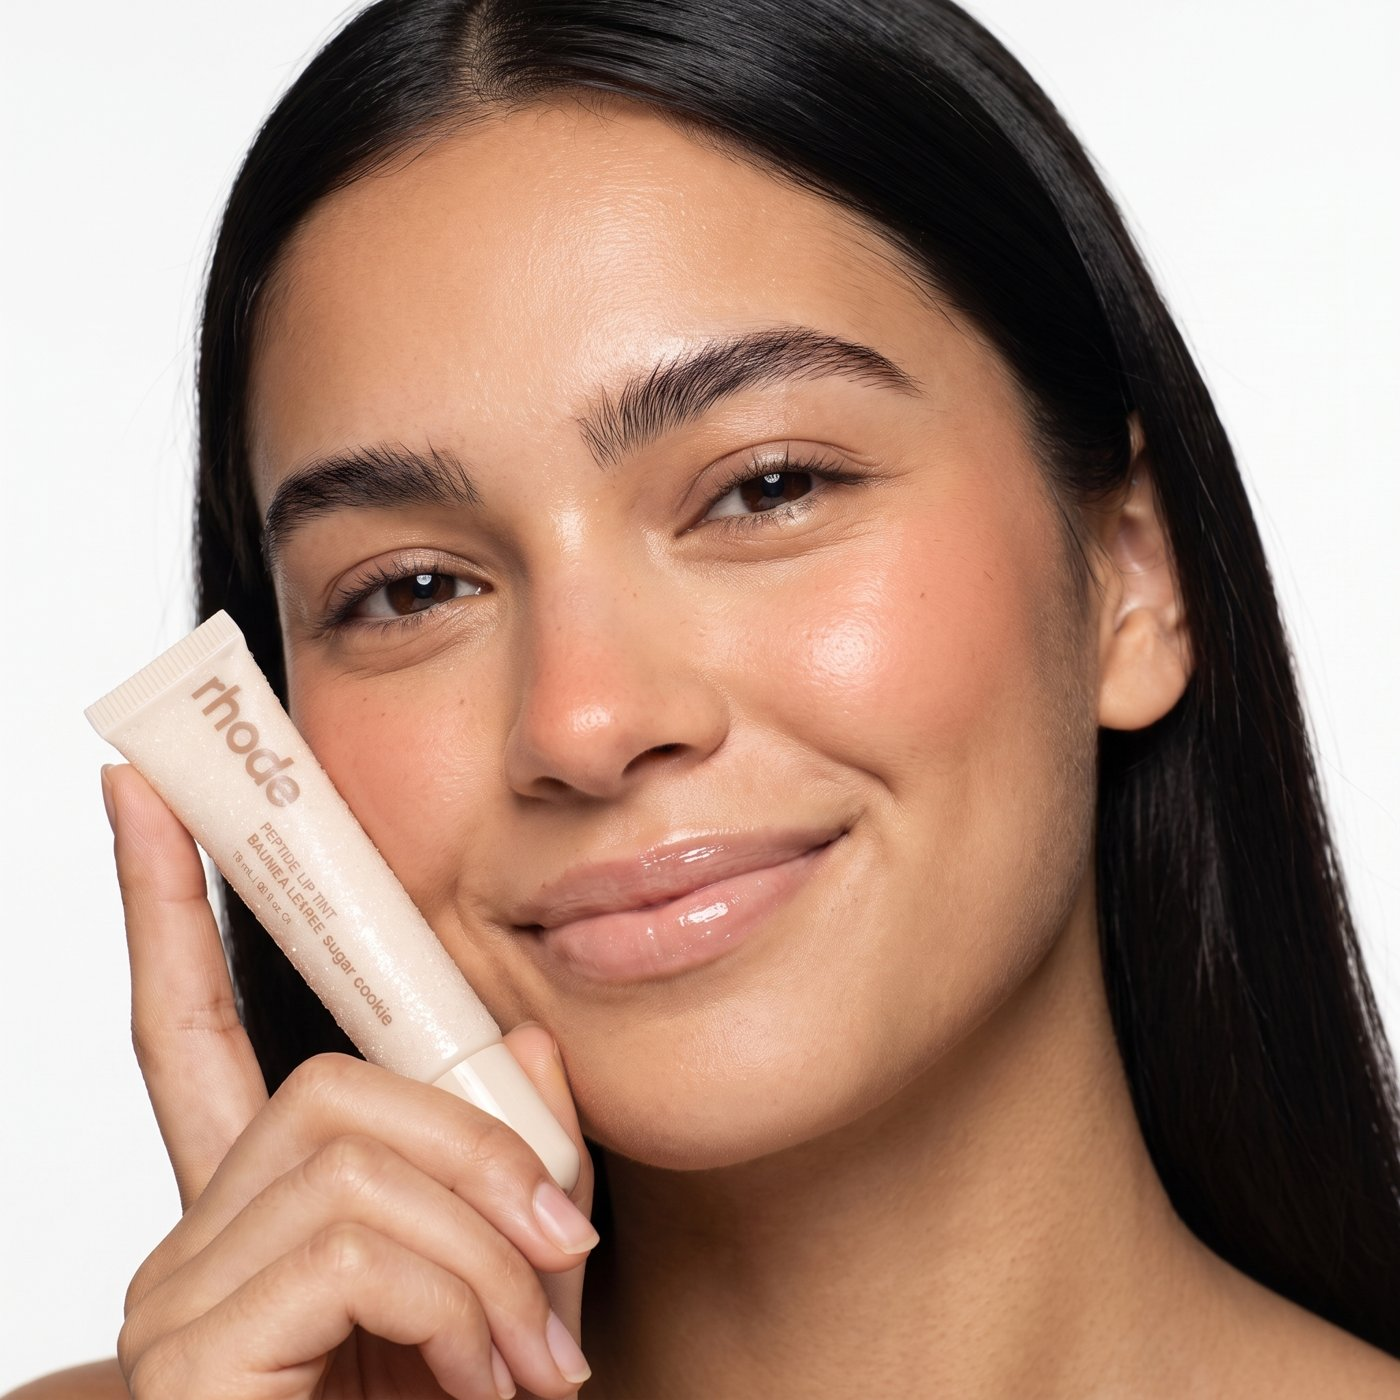
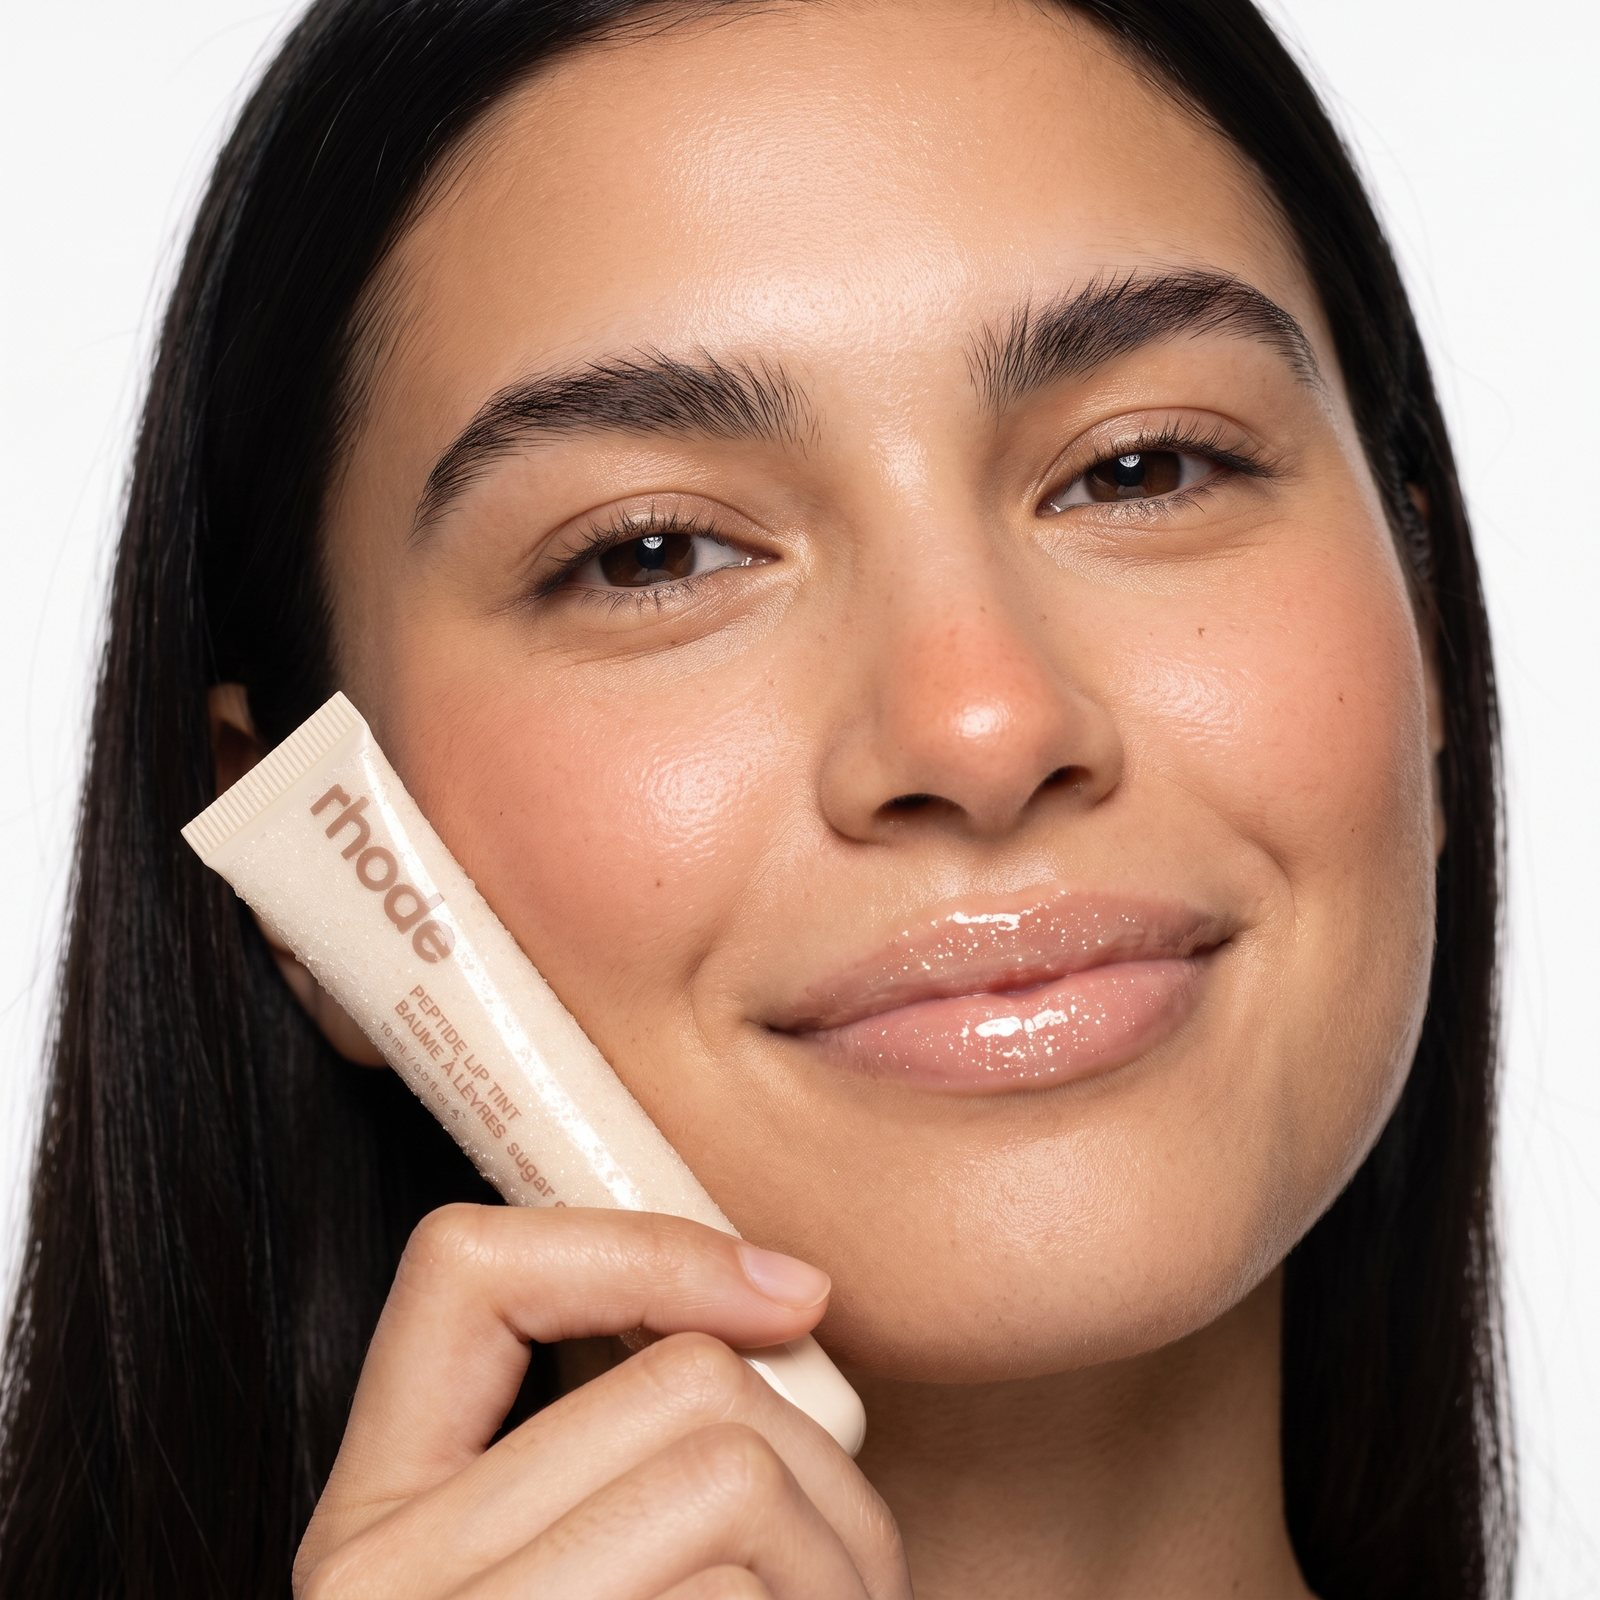
Rhode Christmas: tube, model en close-up per kleur; nieuw model bij sugar cookie
Claude-Session: https://claude.ai/code/session_0147bhuS2GDpKTEyGzi4hKZC

diff --git a/index.html b/index.html
@@ -443,7 +443,7 @@ img.nw-ct{object-fit:contain!important;background:#e0e0e1}
 <div id="proj" style="display:none"></div>
 
 <script>
-var AR={xp1:1,xp2:1,xp3:1,xp4:1,xp5:1,xp6:1,xp7:1,xp8:1,xm1:.7467,xm2:1.339,xm3:1.339,xm4:1.339,xm5:1.339,xm6:1.791,xm7:1.339,dwq:.5625,brq:.5625,lhq:.5625,r2:1,r3:1.339,r4:.747,r5:.747,r6:.747};
+var AR={xc1:1,xc2:1,xc3:1,xc4:1,xp1:1,xp2:1,xp3:1,xp4:1,xp5:1,xp6:1,xp7:1,xp8:1,xm1:.7467,xm2:1.339,xm3:1.339,xm4:1.339,xm5:1.339,xm6:1.791,xm7:1.339,dwq:.5625,brq:.5625,lhq:.5625,r2:1,r3:1.339,r4:.747,r5:.747,r6:.747};
 var sc=document.createElement('canvas'),sx=sc.getContext('2d'),fl=[],run=0;sc.id='snow';document.body.appendChild(sc);
 function rs(){sc.width=innerWidth;sc.height=innerHeight}
 function snow(on){sc.style.display=on?'block':'none';if(!on||run||matchMedia('(prefers-reduced-motion:reduce)').matches)return;rs();fl=[];for(var i=0;i<90;i++)fl.push({x:Math.random()*sc.width,y:Math.random()*sc.height,r:1+Math.random()*3,v:.4+Math.random()*1.1,d:Math.random()*6});run=1;(function f(){if(sc.style.display==='none'){run=0;return}sx.clearRect(0,0,sc.width,sc.height);sx.fillStyle='rgba(255,255,255,.95)';sx.strokeStyle='rgba(90,140,195,.5)';sx.beginPath();fl.forEach(function(p){p.y+=p.v;p.d+=.01;p.x+=Math.sin(p.d)*.5;if(p.y>sc.height){p.y=-5;p.x=Math.random()*sc.width}sx.moveTo(p.x+p.r,p.y);sx.arc(p.x,p.y,p.r,0,6.3)});sx.fill();sx.stroke();requestAnimationFrame(f)})()}
@@ -560,7 +560,7 @@ h+='</main><footer class="nw-foot"><a class="nw-logo" href="#/nieuws">PR-OTASI</
 if(h.indexOf('instagram-media')>-1)setTimeout(function(){if(window.instgrm)window.instgrm.Embeds.process();else if(!document.getElementById('igjs')){var sc=document.createElement('script');sc.id='igjs';sc.async=true;sc.src='https://www.instagram.com/embed.js';document.body.appendChild(sc)}},0);proj.innerHTML=h;[].forEach.call(proj.querySelectorAll('img[data-i],img[data-n]'),function(m){m.src=I[m.getAttribute('data-i')||m.getAttribute('data-n')]});
 home.style.display='none';proj.style.display='';window.scrollTo(0,0)}
 </script>
-<script>var I={xp1:"img/xp1.jpg",xp2:"img/xp2.jpg",xp3:"img/xp3.jpg",xp4:"img/xp4.jpg",xp5:"img/xp5.jpg",xp6:"img/xp6.jpg",xp7:"img/xp7.jpg",xp8:"img/xp8.jpg",xm1:"img/xm1.jpg",xm2:"img/xm2.jpg",xm3:"img/xm3.jpg",xm4:"img/xm4.jpg",xm5:"img/xm5.jpg",xm6:"img/xm6.jpg",xm7:"img/xm7.jpg",rc1:"img/rc1.jpg",rc2:"img/rc2.jpg",rc3:"img/rc3.jpg",eh:"img/elise-hb3.jpg",pkm:"img/pkm.jpg",pkt1:"img/pkt1.jpg",pkt3:"img/pkt3.jpg",dp1:"img/dp1.jpg",dp2:"img/dp2.jpg",dp3:"img/dp3.jpg",ab1:"img/ab1.jpg",ab2:"img/ab2.jpg",dwq:"img/dwq.jpg",brq:"img/brq.jpg",lhq:"img/lhq.jpg",r1:"img/r1.jpg",r2:"img/r2.jpg",r3:"img/r3.jpg",r4:"img/r4.jpg",r5:"img/r5.jpg",r6:"img/r6.jpg",m1:"img/m1.jpg",m2:"img/m2.jpg",m3:"img/m3.jpg",s1:"img/s1.jpg",s2:"img/s2.jpg",s3:"img/s3.jpg",s4:"img/s4.jpg",ban:"img/ban.jpg",lig:"img/lig.jpg",pro:"img/pro.jpg",spr:"img/spr.jpg",adv:"img/adv.jpg",tm:"img/tm.jpg"};</script>
+<script>var I={xc1:"img/xc1.jpg",xc2:"img/xc2.jpg",xc3:"img/xc3.jpg",xc4:"img/xc4.jpg",xp1:"img/xp1.jpg",xp2:"img/xp2.jpg",xp3:"img/xp3.jpg",xp4:"img/xp4.jpg",xp5:"img/xp5.jpg",xp6:"img/xp6.jpg",xp7:"img/xp7.jpg",xp8:"img/xp8.jpg",xm1:"img/xm1.jpg",xm2:"img/xm2.jpg",xm3:"img/xm3.jpg",xm4:"img/xm4.jpg",xm5:"img/xm5.jpg",xm6:"img/xm6.jpg",xm7:"img/xm7.jpg",rc1:"img/rc1.jpg",rc2:"img/rc2.jpg",rc3:"img/rc3.jpg",eh:"img/elise-hb3.jpg",pkm:"img/pkm.jpg",pkt1:"img/pkt1.jpg",pkt3:"img/pkt3.jpg",dp1:"img/dp1.jpg",dp2:"img/dp2.jpg",dp3:"img/dp3.jpg",ab1:"img/ab1.jpg",ab2:"img/ab2.jpg",dwq:"img/dwq.jpg",brq:"img/brq.jpg",lhq:"img/lhq.jpg",r1:"img/r1.jpg",r2:"img/r2.jpg",r3:"img/r3.jpg",r4:"img/r4.jpg",r5:"img/r5.jpg",r6:"img/r6.jpg",m1:"img/m1.jpg",m2:"img/m2.jpg",m3:"img/m3.jpg",s1:"img/s1.jpg",s2:"img/s2.jpg",s3:"img/s3.jpg",s4:"img/s4.jpg",ban:"img/ban.jpg",lig:"img/lig.jpg",pro:"img/pro.jpg",spr:"img/spr.jpg",adv:"img/adv.jpg",tm:"img/tm.jpg"};</script>
 <script>var V={pks:"video/pks.mp4",pkb:"video/pkb.mp4",backrooms:"video/backrooms.mp4",furious:"video/furious.mp4",dw:"video/dw.mp4",lh:"video/lh.mp4",kang:"video/kang.mp4",ts:"video/ts.mp4",car:"video/car.mp4",bb:"video/bb.mp4",esc:"video/esc.mp4",tv1:"video/tv1.mp4",tv2:"video/tv2.mp4",tv3:"video/tv3.mp4",tv4:"video/tv4.mp4",pk:"video/pk.mp4",jn:"video/jn.mp4",cs1:"video/cs1.mp4",cs2:"video/cs2.mp4",cs3:"video/cs3.mp4",cs4:"video/cs4.mp4"};</script>
 <script>
 var boot=document.getElementById('boot'),log=document.getElementById('log');
@@ -596,7 +596,7 @@ var P=[
  d:['In mijn tweede jaar kregen we als eindwerk de opdracht om een eigen magazine te ontwikkelen. Zo ontstond The Fifth.']},
 {id:'rhode-xmas',t:'Rhode — Christmas Edit',tag:'RHODE_XMAS.FICTIEF',role:'Fictieve campagne',yr:'2026',tools:'Campagneconcept, art direction',f:'Rhode',
  d:['Voor deze fictieve kerstcampagne bedacht ik een feestelijke editie voor Rhode. De Peptide Lip Tints, de Glazing Milk en de Highlight Milk krijgen kerstsmaken en -kleuren: peppermint glaze, gingerbread, sugar cookie en mulled wine.','Het beeld speelt met een warme, speelse kerst: een gigantische candy cane-tube in de sneeuw, een kerstmuts met een gingerbread-koekje, luminizers in zilver, goud en rood op een diepgroene achtergrond en een kerstboomdoos met een rode strik.','Het merk blijft herkenbaar, clean en minimalistisch, maar krijgt een cadeaumoment dat je wil delen.'],
- m:[['',['Rhode Christmas banner'],0,['xm6']],['Meer beelden',['Kerstmuts en gingerbread','Glazing Milk, eggnog edition','Highlight Milk in vier kleuren','Lip tint op een kerstcase','Peptide Lip Tints','Kerstboomdoos'],0,['xm1','xm2','xm3','xm4','xm5','xm7'],[[0,1],[2,3],[4,5]],[[0],[1],[2],[3],[4],[5]]],['Peppermint glaze',['peppermint glaze — model','peppermint glaze — tube'],0,['xp1','xp2'],[[0,1]],[[0,1]]],['Gingerbread',['gingerbread — model','gingerbread — tube'],0,['xp3','xp4'],[[0,1]],[[0,1]]],['Sugar cookie',['sugar cookie — model','sugar cookie — tube'],0,['xp5','xp6'],[[0,1]],[[0,1]]],['Mulled wine',['mulled wine — model','mulled wine — tube'],0,['xp7','xp8'],[[0,1]],[[0,1]]]]},
+ m:[['',['Rhode Christmas banner'],0,['xm6']],['Meer beelden',['Kerstmuts en gingerbread','Glazing Milk, eggnog edition','Highlight Milk in vier kleuren','Lip tint op een kerstcase','Peptide Lip Tints','Kerstboomdoos'],0,['xm1','xm2','xm3','xm4','xm5','xm7'],[[0,1],[2,3],[4,5]],[[0],[1],[2],[3],[4],[5]]],['Peppermint glaze',['peppermint glaze — tube','peppermint glaze — model','peppermint glaze — close-up'],0,['xp2','xp1','xc1'],[[0,1,2]],[[0],[1,2]]],['Gingerbread',['gingerbread — tube','gingerbread — model','gingerbread — close-up'],0,['xp4','xp3','xc2'],[[0,1,2]],[[0],[1,2]]],['Sugar cookie',['sugar cookie — tube','sugar cookie — model','sugar cookie — close-up'],0,['xp6','xp5','xc3'],[[0,1,2]],[[0],[1,2]]],['Mulled wine',['mulled wine — tube','mulled wine — model','mulled wine — close-up'],0,['xp8','xp7','xc4'],[[0,1,2]],[[0],[1,2]]]]},
 {id:'ioan',t:'IOAN — Sun Set 50',tag:'IOAN.FICTIEF',role:'Fictieve campagne',yr:'2026',tools:'AI-beeld, Adobe Express',src:O+'ioan',f:'IOAN',
  d:['Deze fictieve campagne voor de Sun Set 50 van IOAN is een cinematografische grooming-productie op een luxueus Mediterraans zwembaddek tijdens golden hour.','Het concept focust op moeiteloze, onzichtbare zonbescherming en huidverzorging voor een actieve levensstijl, met een zongekust mannelijk model als middelpunt. De stijl combineert high-fashion editorial met rauwe, moderne skincare.','De beelden zijn volledig met AI geproduceerd en bewerkt in Adobe Express.'],
  m:[]},
